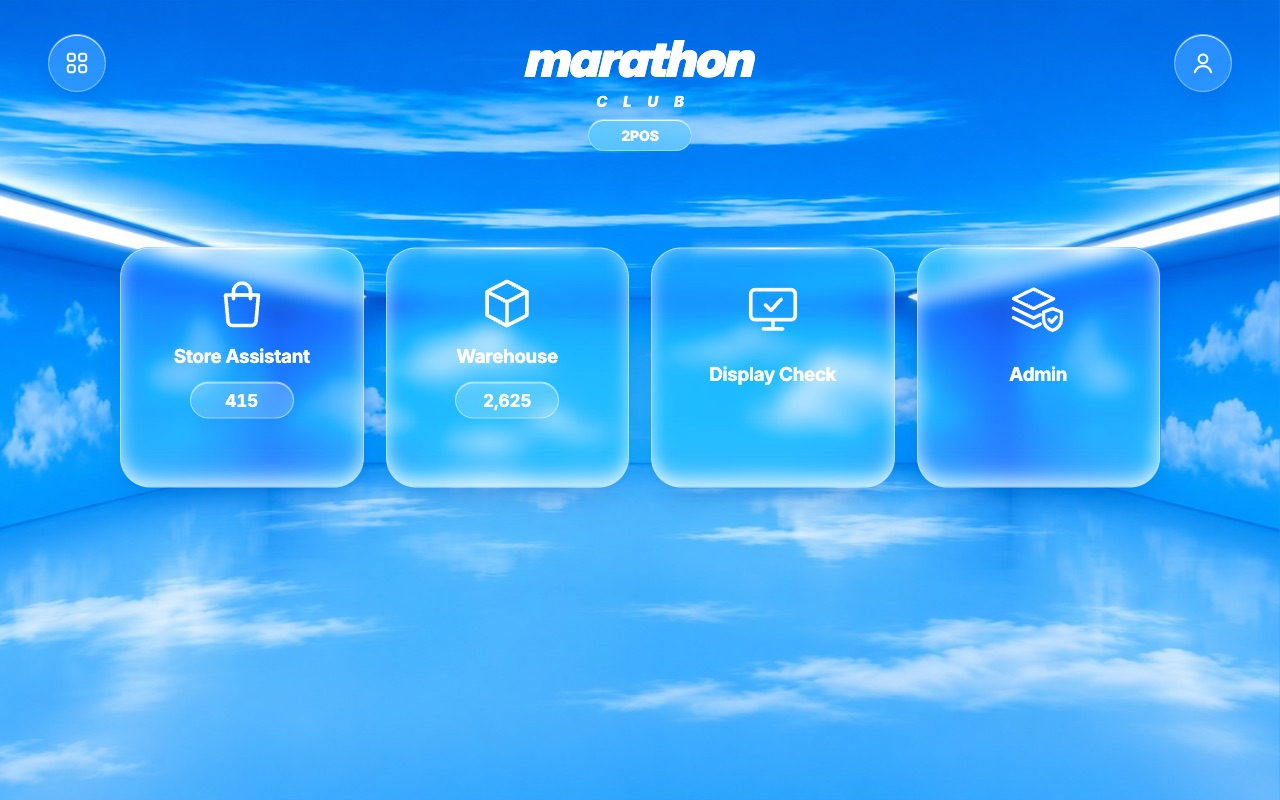
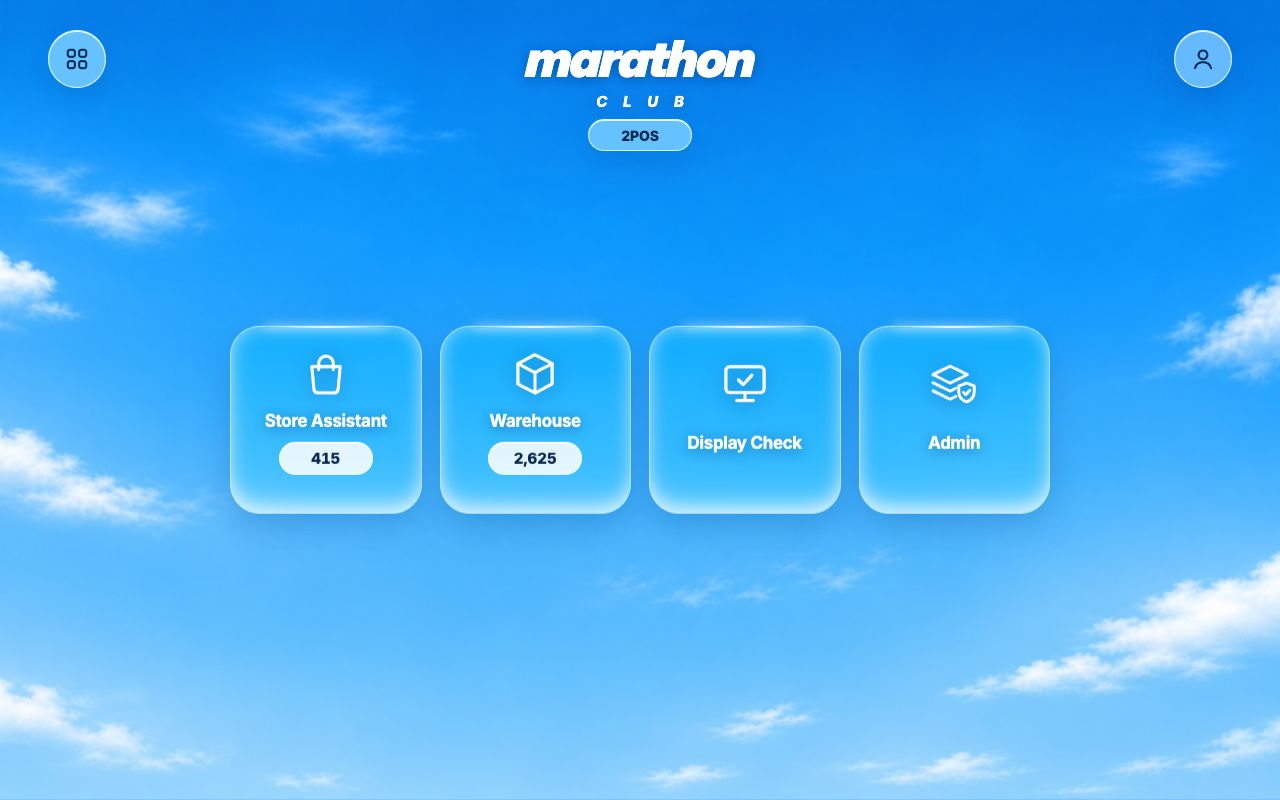
Phone sky background; laptop home tiles smaller and centred; legacy ink to deep ink

diff --git a/src/components/sky/SkyHome.jsx b/src/components/sky/SkyHome.jsx
@@ -145,19 +145,23 @@ const HOME_CSS = `
 .sky-tile[data-testid="home-tile-display_checks"],.sky-tile[data-testid="home-tile-admin"]{padding-top:32px}
 .sky-tile[data-testid="home-tile-display_checks"] .sky-tile__nm,.sky-tile[data-testid="home-tile-admin"] .sky-tile__nm{margin-top:24px}
 @media (min-width:900px){
-  .sky-home__band{margin-top:0;position:absolute;left:0;right:0;top:58%;transform:translateY(-100%);padding:0 32px}
-  .sky-home__grid{grid-template-columns:repeat(4,minmax(0,1fr));column-gap:22px;max-width:1040px}
-  .sky-home__grid.n3{grid-template-columns:repeat(3,minmax(0,1fr));max-width:780px}
-  .sky-home__grid.n2{grid-template-columns:repeat(2,minmax(0,1fr));max-width:520px}
+  /* Laptop home (Junid 5 Nov, plain sky): smaller tiles, centred on the screen. */
+  .sky-home__band{margin-top:0;position:absolute;left:0;right:0;top:50%;transform:translateY(-50%);padding:0 32px}
+  .sky-home__grid{grid-template-columns:repeat(4,minmax(0,1fr));column-gap:18px;max-width:820px}
+  .sky-home__grid.n3{grid-template-columns:repeat(3,minmax(0,1fr));max-width:615px}
+  .sky-home__grid.n2{grid-template-columns:repeat(2,minmax(0,1fr));max-width:410px}
   .sky-home{position:relative}
   .sky-home .sky-logo--lg .sky-logo__m{font-size:50px}
   .sky-home .sky-logo--lg .sky-logo__c{font-size:15px;margin-top:10px}
   .sky-home .sky-header{padding:34px 48px 0}
   .sky-home .sky-round{width:58px;height:58px}
   .sky-home .sky-round svg{width:26px;height:26px}
-  .sky-tile__nm{font-size:19px}
+  .sky-tile__nm{font-size:17px}
+  .sky-tile{padding-top:22px}
+  .sky-tile__ic{width:50px;height:50px}
+  .sky-tile__ct{min-width:62px;height:31px;font-size:15px;margin-top:11px}
 }
-@media (min-width:900px) and (max-height:620px){.sky-home__band{position:static;transform:none;margin-top:36px}}
+@media (min-width:900px) and (max-height:560px){.sky-home__band{position:static;transform:none;margin-top:36px}}
 .sky-hub{max-width:1080px;margin:26px auto 0;padding:0 var(--sky-gutter) 40px}
 .sky-hub__live{display:grid;grid-template-columns:repeat(auto-fill,minmax(300px,1fr));gap:14px;margin-bottom:22px}
 .sky-hub__grp{margin-bottom:22px}

diff --git a/index.html b/index.html
@@ -10,7 +10,8 @@
     <link rel="preconnect" href="https://fonts.gstatic.com" crossorigin />
     <link href="https://fonts.googleapis.com/css2?family=Inter:ital,opsz,wght@0,14..32,400..900;1,14..32,700..900&display=swap" rel="stylesheet" />
     <!-- The room is preloaded so the first paint is the photo, never black. -->
-    <link rel="preload" as="image" href="/assets/sky-clear.jpg" />
+    <link rel="preload" as="image" href="/assets/sky-clear.jpg" media="(min-width: 768px) and (orientation: landscape), (min-width: 1024px)" />
+    <link rel="preload" as="image" href="/assets/sky-clear-phone.jpg" media="(max-width: 767px), (orientation: portrait) and (max-width: 1023px)" />
 
     <!-- PWA -->
     <link rel="manifest" href="/manifest.json" />

diff --git a/src/styles/sky-theme.css b/src/styles/sky-theme.css
@@ -32,7 +32,7 @@
 /* ── Type: navy ink is the default for everything in the app. Legacy screens
  * get the deeper navy: a title there may sit on the bare sky rather than on
  * glass, and #0b2a52 measured 4.36:1 on the sky's mid-blue. */
-html[data-sky="on"] #root { color: var(--sky-ink); --sky-legacy-ink: #071d3d; }
+html[data-sky="on"] #root { color: var(--sky-ink); --sky-legacy-ink: #04122b; }   /* deep ink: the brighter phone sky (5 Nov) put #071d3d at 4.43:1 */
 html[data-sky="on"] #root [style*="font-family: -apple-system"],
 html[data-sky="on"] #root [style*="font-family: system-ui"],
 html[data-sky="on"] #root [style*="SF Pro Display"] {

diff --git a/src/styles/sky.css b/src/styles/sky.css
@@ -79,6 +79,10 @@ html[data-sky="on"] body { font-family: var(--sky-font); }
   background-repeat: no-repeat;
   pointer-events: none;
 }
+/* Phones and portrait tablets: Junid's tall sky (5 Nov), same rules — cover, untouched. */
+@media (max-width: 767px), (orientation: portrait) and (max-width: 1023px) {
+  .sky-bg { background-image: url("/assets/sky-clear-phone.jpg"); }
+}
 html[data-sky="off"] .sky-bg { display: none; }
 #root { position: relative; z-index: 1; }
 

diff --git a/design/DNA.md b/design/DNA.md
@@ -9,6 +9,7 @@ word here and an image disagree, the image wins. Code: `src/styles/sky.css`
 ## 1. The room
 - One background, everywhere: `sky-clear.jpg` (Junid 5 Nov: the plain sky of
   his mock-ups replaces the room photo, which stays in the repo unused),
+  and on phones / portrait tablets the tall `sky-clear-phone.jpg`,
   `cover`, centred, **untouched** — no
   overlay, gradient, tint, blur or darkening over it, ever.
 - It is a `position:fixed` div at `z-index:0` in `index.html` (never
